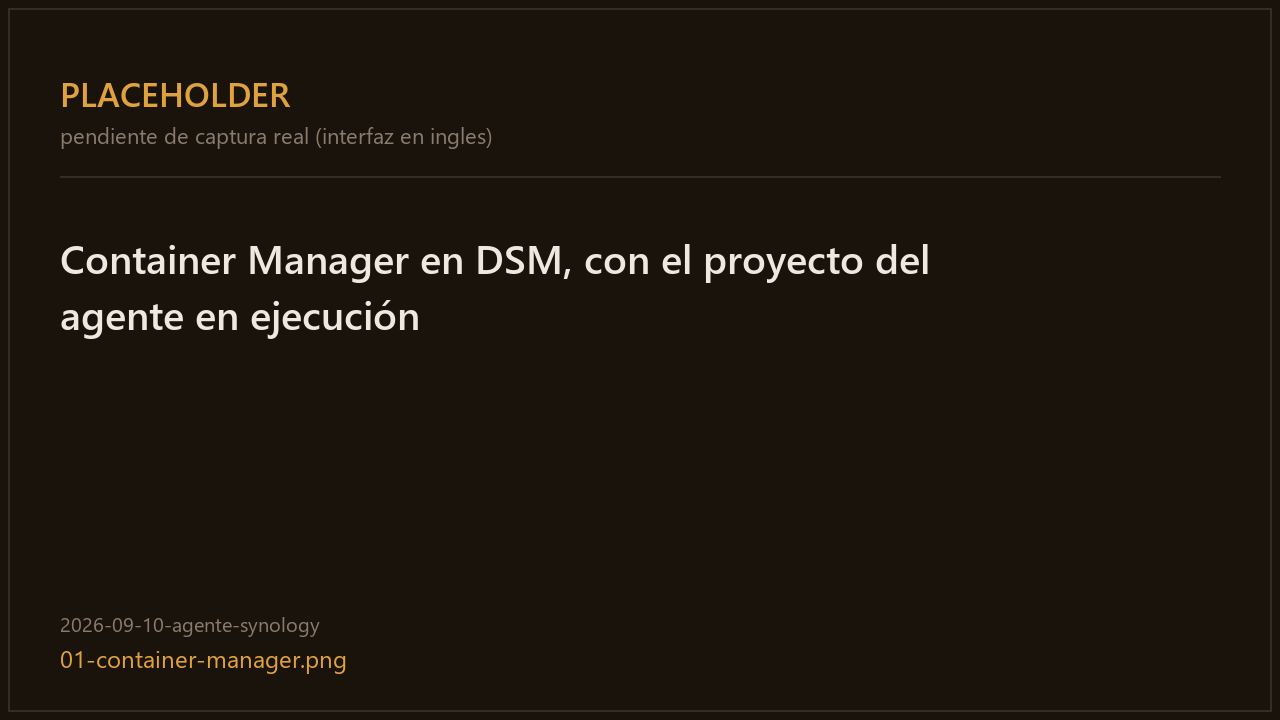
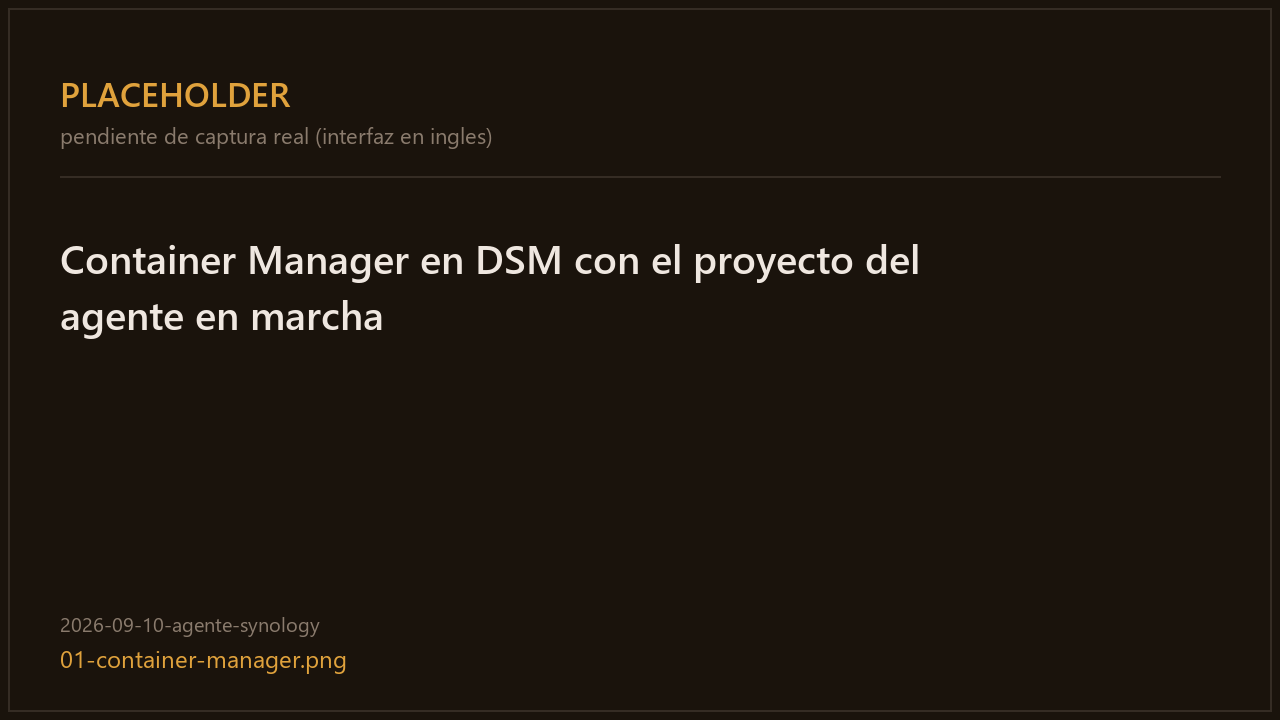
docs: reescribe el articulo de Synology con la voz del blog
Estaba calcado del manual interno del que salio, y se notaba: «Cinco
comprobaciones», «Tres senales, en este orden», titulos numerados 2.1 / 2.2,
listas de tareas. Eso es un procedimiento, no un articulo — leia como
documentacion oficial y el blog no lo es.

Reescrito entero en la voz que toca: alguien que ya lo ha montado
explicandotelo. Informal pero correcto, sin gracietas. Se van las
enumeraciones rigidas y la numeracion de apartados, y entran los porques que un
manual da por sabidos — por que en el NAS y no en el portatil que apagas por la
noche, por que el espacio colado al pegar el codigo es el fallo mas repetido, y
por que de las tres comprobaciones solo cuenta la tercera.

Los datos tecnicos no se tocan: siguen el aviso de `latest` (404 en el registro,
verificado), el de que el primer contenedor se queda la instalacion, el de que
el codigo es una contrasena, y la tabla de diagnostico.

Marcadores regenerados para que su rotulo cuadre con los textos alternativos
nuevos.

Changed region(s): [[0.4375, 0.3361, 0.75, 0.3972], [0.1875, 0.4278, 0.3438, 0.4583]]

diff --git a/posts/2026-09-10-agente-synology/es.md b/posts/2026-09-10-agente-synology/es.md
@@ -1,141 +1,132 @@
 ---
 slug: instalar-agente-bolloprint-synology-container-manager
-title: Instalar el agente de BolloPrint en un NAS Synology, paso a paso
-description: Si ya tienes un Synology encendido en el taller, es el sitio ideal para el agente. Veinte minutos con Container Manager, sin tocar el router y sin saber nada de contenedores.
+title: Montar el agente de BolloPrint en un Synology
+description: Si ya tienes un NAS en el taller, deja de buscar dónde meter el agente. Veinte minutos por la interfaz de DSM, sin escribir un solo comando y sin tocar el router.
 date: 2026-09-10
 updated: 2026-09-10
 tags: [tutoriales]
 draft: false
 ---
 
-Para conectar tus impresoras por red local hace falta el **agente**, un programa
-pequeño que corre en un equipo del taller. Y si ya tienes un **NAS Synology**,
-ese equipo ya lo tienes: está siempre encendido, está en la misma red que las
-impresoras y sabe ejecutar contenedores desde DSM.
+Si tienes un Synology en el taller, ya tienes dónde meter el agente. Está
+encendido las veinticuatro horas, está en la misma red que las impresoras y sabe
+ejecutar contenedores desde hace años. Es difícil encontrar mejor sitio.
 
-Este tutorial monta el agente entero en un Synology, **desde cero y sin saber
-nada de Docker**. Son unos 20 minutos, y casi todo es esperar descargas.
+Y no hace falta que sepas nada de Docker: no vas a escribir ni un comando. Todo
+sale de la interfaz de DSM, pegando un texto en un recuadro. Calcula veinte
+minutos, y la mitad es esperar a que descargue.
 
 :::info
-Aquí solo se cubre **el despliegue en Synology**. Cómo funciona el agente, qué
-marcas admite y cómo dar de alta cada impresora está en el
-[tutorial de red local](/blog/conectar-impresoras-red-local-agente-bolloprint).
-Cuando acabes aquí, sigue por ahí.
+Esto va solo del **despliegue en Synology**. Qué es el agente, qué marcas admite
+y cómo das de alta cada impresora está en el
+[tutorial de red local](/blog/conectar-impresoras-red-local-agente-bolloprint) —
+cuando termines aquí, sigue por ahí.
 :::
 
-![Container Manager en DSM, con el proyecto del agente en ejecución](/blog/media/2026-09-10-agente-synology/01-container-manager.png)
+![Container Manager en DSM con el proyecto del agente en marcha](/blog/media/2026-09-10-agente-synology/01-container-manager.png)
 
-## Por qué el NAS es buen sitio
+## Por qué en el NAS y no en tu portátil
 
-- **Está siempre encendido.** Es el requisito de verdad del agente: si el equipo
-  se apaga por la noche, dejas de ver lo que hacen las impresoras.
-- **Está en la red de las impresoras**, que es lo que le permite descubrirlas
-  solo.
-- **Consume nada**: entre 10 y 20 MB de memoria con varias máquinas conectadas.
-  En un NAS eso no se nota.
+Porque el agente solo sirve si está despierto. Si lo pones en el ordenador que
+apagas al irte, esas horas no las ves: ni qué imprimió, ni cuánto tardó, ni si
+se paró a las tres de la mañana. El NAS ya está encendido de todas formas.
 
-:::info 💡 El agente no abre tu NAS a internet
-Es **él quien llama hacia fuera**, por el puerto 443, igual que cuando abres una
-página web. No recibe conexiones de fuera nunca. Por eso **no hay que abrir
-puertos en el router**, ni tener IP fija, ni tocar el cortafuegos — y funciona
-igual detrás de un router doméstico o de una conexión con CGNAT.
+Lo demás viene de regalo: está en la red de las impresoras, que es lo que le
+permite encontrarlas solo, y consume entre 10 y 20 MB de memoria. En un NAS eso
+no lo nota nadie.
+
+:::info 💡 No, no vas a tener que tocar el router
+El agente **llama hacia fuera**, por el 443, igual que cuando abres una página
+web. Nunca recibe conexiones de internet. Así que nada de abrir puertos, ni IP
+fija, ni pelearte con el cortafuegos — y funciona igual detrás de un router
+doméstico o de una fibra con CGNAT.
 :::
 
-## Antes de empezar
+## Lo que necesitas antes de ponerte
 
-Cinco comprobaciones. Si falla alguna, el resto no va a funcionar y es mejor
-saberlo ahora que a mitad:
+Cuatro cosas, y conviene mirarlas ahora y no a mitad:
 
-- [ ] **El NAS está en la misma red que las impresoras.** Misma LAN, sin router
-      de por medio. Si están separadas el agente funciona igual, pero no las
-      descubrirá solo: habrá que añadirlas a mano por su IP.
-- [ ] **El NAS tiene salida a internet** por el puerto **443**. Nada más.
-- [ ] **Tienes un usuario administrador de DSM.**
-- [ ] **DSM es la versión 7.2 o superior.** Se ve en **Panel de control →
-      Actualización y restauración** (*Control Panel → Update & Restore*). Con
-      DSM 7.0 o 7.1 este tutorial no sirve: hay que actualizar DSM primero.
-- [ ] **Tienes creado el agente en BolloPrint** y a mano su **código de
-      conexión**. Se crea en **Settings → Printers → Local agent**, y está
-      explicado en el [tutorial de red local](/blog/conectar-impresoras-red-local-agente-bolloprint).
+- **Que el NAS y las impresoras estén en la misma red.** Si están en VLANs
+  distintas el agente funciona igual, pero pierde el descubrimiento automático:
+  tendrás que añadir cada impresora a mano por su IP.
+- **Que el NAS salga a internet por el 443.** Nada más.
+- **DSM 7.2 o superior.** Lo miras en **Panel de control → Actualización y
+  restauración** (*Control Panel → Update & Restore*). Con 7.0 o 7.1 esto no te
+  va a servir: actualiza DSM primero.
+- **El código de conexión del agente**, que sacas creándolo en BolloPrint desde
+  **Settings → Printers → Local agent**.
 
-:::danger ⚠ Arranca el agente SOLO en el NAS
-**El primer contenedor que arranque con ese código se queda con la
-instalación.** Si lo pruebas antes en tu portátil «para ver si va» y luego lo
-montas en el Synology, el NAS llegará como una instalación desconocida y se
-quedará **pendiente de autorizar**.
+:::danger ⚠ Arráncalo solo en el NAS, no lo pruebes antes en otro sitio
+El **primer contenedor que arranque con ese código se queda la instalación**.
+Así que si lo lanzas en tu portátil «a ver si tira» y luego lo montas en el
+Synology, el NAS llega como una instalación desconocida y se queda esperando que
+lo autorices.
 
-No es grave —se autoriza con un clic— pero te ahorras el susto sabiéndolo.
+Tampoco es una tragedia —se autoriza con un clic— pero te evitas el momento de
+«¿y ahora por qué no sale?».
 :::
 
-:::warning 🔐 El código es una credencial
-Da acceso a los datos de conexión de las impresoras del taller. Trátalo como una
-contraseña: no va en un chat de grupo ni en una captura de pantalla.
+:::warning 🔐 Ese código es una contraseña
+Da acceso a los datos de conexión de las impresoras del taller. No lo pegues en
+un grupo de WhatsApp ni lo dejes en una captura de pantalla.
 :::
 
-## Paso 1 — Instala Container Manager
+## 1. Instalar Container Manager
 
-Es la aplicación de Synology que sabe ejecutar contenedores. Se instala como
-cualquier otra y **no hay nada que configurar dentro de ella**.
+Es la app de Synology que ejecuta contenedores. Se instala como cualquier otra y
+**por dentro no hay nada que configurar**, así que este paso es rápido.
 
-1. Entra en DSM: en el navegador, `http://IP-DEL-NAS:5000`, con tu usuario
-   administrador.
-2. Abre **Menú principal → Centro de paquetes** (*Package Center*).
-3. Busca **Container Manager** y pulsa **Instalar**. Tarda uno o dos minutos.
-4. Ábrelo y espera a que arranque. Cuando la pestaña **Descripción general**
-   (*Overview*) enseñe datos en vez de un aviso, ya está.
+Entra en DSM (`http://IP-DEL-NAS:5000`) con tu usuario administrador, abre
+**Centro de paquetes** (*Package Center*), busca **Container Manager** y dale a
+instalar. Uno o dos minutos. Luego ábrelo y espera a que arranque: cuando la
+pestaña **Descripción general** (*Overview*) enseñe datos en vez de un aviso, ya
+está.
 
-![Centro de paquetes de DSM con Container Manager](/blog/media/2026-09-10-agente-synology/02-centro-paquetes.png)
+![El Centro de paquetes de DSM con Container Manager](/blog/media/2026-09-10-agente-synology/02-centro-paquetes.png)
 
-DSM crea por su cuenta una carpeta compartida llamada `docker`. Es normal y no
-hay que tocarla.
+Verás que DSM se crea por su cuenta una carpeta compartida llamada `docker`. Es
+normal, déjala en paz.
 
-:::warning ⚠ Si Container Manager no aparece en la lista
-Ese modelo de NAS **no admite contenedores**. Es una limitación del hardware, no
-hay solución por software: monta el agente en otra máquina de la misma red — un
-mini-PC, una Raspberry Pi o cualquier equipo que esté siempre encendido.
+:::warning ⚠ Si Container Manager no te aparece
+Es que ese modelo de NAS no admite contenedores. No hay nada que hacer por
+software: monta el agente en otra máquina de la misma red — un mini-PC, una
+Raspberry Pi, cualquier cosa que esté siempre encendida.
 :::
 
-## Paso 2 — Crea el proyecto del agente
+## 2. Crear el proyecto
 
-En Container Manager, un **proyecto** es una receta escrita: pegas un texto y el
-NAS se encarga de descargar y arrancar lo que diga. No hay que crear carpetas ni
-copiar ficheros a mano.
+En Container Manager un **proyecto** es básicamente una receta escrita: pegas un
+texto, y el NAS se encarga de descargar y arrancar lo que ponga. No hay que
+crear carpetas ni copiar ficheros.
 
-### 2.1 · Nuevo proyecto
-
-Ve a **Container Manager → Proyecto → Crear** (*Project → Create*).
+Ve a **Proyecto → Crear** (*Project → Create*).
 
 ![Container Manager, pestaña Proyecto, botón Crear](/blog/media/2026-09-10-agente-synology/03-crear-proyecto.png)
 
-### 2.2 · Nombre y ruta
+De nombre, `bolloprint-agent`, en minúsculas — DSM no traga mayúsculas ni
+espacios ahí. Para la ruta, pulsa **Establecer ruta** (*Set Path*), métete en la
+carpeta `docker`, crea una llamada `bolloprint-agent` y selecciónala.
 
-- **Nombre**: `bolloprint-agent`. En minúsculas — DSM no acepta mayúsculas ni
-  espacios aquí.
-- **Ruta**: pulsa **Establecer ruta** (*Set Path*), entra en la carpeta `docker`,
-  pulsa **Crear carpeta**, llámala `bolloprint-agent` y selecciónala.
-
-:::info 💡 Ahí solo se guarda la receta
-En esa carpeta va **únicamente el texto del `docker-compose.yml`**. Los datos del
-agente **no van a ninguna carpeta compartida**: viven en un volumen interno de
-Docker que se crea solo y que ni siquiera aparece en File Station. Es lo que
-queremos — nada que tocar y nada que romper por accidente.
+:::info 💡 Ahí solo va la receta, no tus datos
+En esa carpeta se guarda **únicamente el texto del `docker-compose.yml`**. Lo
+que el agente necesita recordar vive en un volumen interno de Docker que se crea
+solo y que ni siquiera sale en File Station. Mejor así: nada que tocar y nada
+que borrar sin querer.
 :::
 
-### 2.3 · Pega el bloque
+En **Origen** (*Source*) elige crear un `docker-compose.yml`. Te sale un
+recuadro vacío, y ahí va el bloque.
 
-En el desplegable **Origen** (*Source*) elige **crear un `docker-compose.yml`**.
-Aparecerá un recuadro de texto vacío.
+:::danger ⚠ Copia el bloque de tu pantalla, no el de aquí
+Lo tienes en BolloPrint, en **Settings → Printers → Local agent → How to deploy
+it**, pestaña **Docker Compose**, con su botón de copiar. Ese lleva la versión
+del agente que toca en cada momento; el de abajo es para que veas la pinta.
 
-:::danger ⚠ Copia el bloque de TU pantalla, no de este artículo
-En BolloPrint, en **Settings → Printers → Local agent → How to deploy it**,
-pestaña **Docker Compose**, tienes el bloque con el botón **Copy**. Ese lleva
-**la versión del agente que toca en cada momento**.
-
-El de aquí abajo es para que veas la pinta que tiene. **Y no pongas `latest`:**
-esa etiqueta no existe en el registro —lo he comprobado hoy: responde 404— y el
-proyecto fallaría con `manifest unknown` sin llegar a arrancar. No es un olvido,
-es deliberado: una etiqueta móvil dejaría que una actualización cambiara el
-agente bajo una flota en marcha sin que el taller lo decida.
+**Y no se te ocurra poner `latest`.** Esa etiqueta no existe en el registro —lo
+he comprobado hoy: devuelve 404— así que el proyecto se quedaría en
+`manifest unknown` sin llegar a arrancar. No es un descuido de nadie: es
+deliberado, porque una etiqueta móvil dejaría que una actualización cambiara el
+agente por debajo de una flota en marcha sin que el taller lo decida.
 :::
 
 ```yaml
@@ -163,55 +154,41 @@ volumes:
     name: bolloprint_agent_identity
 ```
 
-Sustituye `PEGA_AQUI_TU_CODIGO` por tu código de conexión, entero y sin espacios
-delante ni detrás.
+Cambia `PEGA_AQUI_TU_CODIGO` por el tuyo, entero y sin espacios sueltos delante
+o detrás — es el fallo más tonto y el que más veces pasa.
 
-![El editor del docker-compose.yml en Container Manager](/blog/media/2026-09-10-agente-synology/04-compose.png)
+![El editor del docker-compose.yml dentro de Container Manager](/blog/media/2026-09-10-agente-synology/04-compose.png)
 
-Cuatro apuntes sobre ese texto:
+Cuatro cosas de ese texto que conviene que sepas:
 
 - **Pégalo, no lo reescribas.** Los espacios del principio de cada línea son
-  parte del formato, y un tabulador en lugar de espacios hace que DSM lo
-  rechace.
-- **`network_mode: host`** es lo que permite el descubrimiento automático de
-  impresoras. Sin eso, el contenedor no ve la red del NAS y habría que añadirlas
-  todas a mano.
-- **El volumen `identity`** guarda la identidad de esta instalación. Es lo que
-  evita que el agente pida autorización cada vez que se reinicie.
-- **Las dos líneas con `#` están apagadas a propósito.** Solo se encienden para
-  diagnosticar.
+  parte del formato, y como te cuele un tabulador DSM lo rechaza.
+- **`network_mode: host`** es lo que hace que el agente vea la red del NAS y
+  encuentre impresoras solo. Sin eso, todas a mano.
+- **El volumen `identity`** es la memoria del agente. Es lo que evita que te
+  pida autorización cada vez que reinicies.
+- **Las líneas con `#` están apagadas a propósito.** Solo se encienden si hay
+  que diagnosticar algo.
 
-### 2.4 · Sin portal web
+Cuando siga, DSM te ofrece publicar un «portal web». Dile **Ninguno** (*None*):
+el agente no tiene ninguna página que enseñar.
 
-DSM ofrece publicar un «portal web» para el proyecto. Elige **Ninguno** (*None*):
-el agente no tiene ninguna página que publicar.
+Y ya. DSM descarga la imagen y arranca el contenedor enseñándote un registro en
+vivo. Un par de minutos según tu conexión. Si al terminar el proyecto se queda
+parado, lo seleccionas y **Acción → Iniciar** (*Action → Start*).
 
-### 2.5 · Termina
+## 3. Comprobar que va
 
-DSM descarga la imagen y arranca el contenedor mientras enseña un registro en
-vivo. Uno o dos minutos según tu conexión. Cuando acabe, ciérralo.
+Hay tres señales, pero **la que de verdad vale es la tercera**. Las dos primeras
+solo te dicen que el contenedor arrancó, no que esté hablando con nadie.
 
-:::info
-Si el proyecto se queda parado, selecciónalo en la lista y pulsa **Acción →
-Iniciar** (*Action → Start*).
-:::
-
-## Paso 3 — Comprueba que ha funcionado
-
-Tres señales, en este orden. **La tercera es la que cuenta.**
-
-### a) El contenedor está en ejecución
-
-En **Container Manager → Contenedor** (*Container*) debe aparecer
-`bolloprint_agent` en estado **En ejecución**, con un consumo de memoria de unas
-pocas decenas de MB.
+**El contenedor está en marcha.** En **Contenedor** (*Container*) debe salir
+`bolloprint_agent` como **En ejecución**, gastando unas pocas decenas de MB.
 
 ![La lista de contenedores con bolloprint_agent en ejecución](/blog/media/2026-09-10-agente-synology/05-contenedor.png)
 
-### b) El registro dice lo que tiene que decir
-
-Doble clic en el contenedor y abre la pestaña **Registro** (*Log*). En los
-primeros segundos deben salir estas líneas:
+**El registro dice lo que tiene que decir.** Doble clic en el contenedor,
+pestaña **Registro** (*Log*), y en los primeros segundos deberías ver esto:
 
 ```
 INFO bolloprint-agent starting version=0.4.8
@@ -220,48 +197,45 @@ INFO bootstrapped agent_id=... printers=0
 INFO broker connected
 ```
 
-| Línea | Qué confirma |
+Cada línea confirma una cosa distinta, y por eso merece la pena mirarlas:
+
+| Línea | Qué te está diciendo |
 |---|---|
-| `source=stored` | El volumen de identidad está montado y se puede escribir. Si pone otra cosa, el agente pedirá autorización cada vez que se recree el contenedor. |
-| `bootstrapped` | El código es válido y BolloPrint lo ha reconocido. |
-| `broker connected` | La conexión permanente está establecida. A partir de aquí el agente ya reporta. |
+| `source=stored` | El volumen de identidad está montado y se puede escribir. Si pone otra cosa, prepárate a autorizar el agente cada vez que se recree el contenedor. |
+| `bootstrapped` | El código es bueno y BolloPrint lo ha reconocido. |
+| `broker connected` | La conexión permanente está abierta. De aquí en adelante el agente ya reporta. |
 
 ![La pestaña Registro con las líneas de arranque](/blog/media/2026-09-10-agente-synology/06-registro.png)
 
-### c) El agente se pone en verde en BolloPrint
-
-En **Settings → Printers → Local agent**, la tarjeta del agente debe pasar a
-**Online** en unos 30 segundos.
-
-**Esa es la comprobación de verdad**: significa que el circuito completo
-funciona. Las dos anteriores solo dicen que el contenedor arrancó.
+**Y el agente se pone verde en BolloPrint.** En **Settings → Printers → Local
+agent**, la tarjeta debe pasar a **Online** en unos treinta segundos. Esa es la
+buena: significa que el circuito entero funciona.
 
 ![La tarjeta del agente en Online dentro de BolloPrint](/blog/media/2026-09-10-agente-synology/07-agente-online.png)
 
-## Si algo no va
+## Si algo no sale
 
 | Lo que ves | Qué suele ser |
 |---|---|
-| `manifest unknown` al descargar | La versión de la imagen no existe. Copia el bloque otra vez desde tu pantalla de BolloPrint — y comprueba que no pusiste `latest`. |
-| El contenedor arranca y se para solo | Mira el registro: casi siempre es el código mal pegado, con un espacio delante o detrás. |
-| `bootstrapped` no aparece nunca | El NAS no llega a internet por el 443, o hay un cortafuegos bloqueando la salida. |
-| El agente pide autorización en cada reinicio | Falta el volumen de identidad. Revisa que el bloque lleva la sección `volumes` entera, tal cual. |
-| Sale como instalación pendiente de autorizar | Ese código ya se usó en otra máquina. Autorízalo desde BolloPrint si reconoces el equipo — al autorizar uno, el anterior pierde el acceso. |
-| No detecta ninguna impresora | ¿Están el NAS y las impresoras en la misma red? Si no, es lo esperado: añádelas a mano por su IP y funcionarán igual. |
+| `manifest unknown` al descargar | La versión de la imagen no existe. Vuelve a copiar el bloque de tu pantalla — y mira que no hayas puesto `latest`. |
+| Arranca y se para solo | Al registro. Casi siempre es el código mal pegado, con un espacio colado delante o detrás. |
+| `bootstrapped` no sale nunca | El NAS no llega a internet por el 443, o hay un cortafuegos comiéndose la salida. |
+| Te pide autorización en cada reinicio | Le falta el volumen de identidad. Comprueba que pegaste la sección `volumes` entera. |
+| Aparece como instalación pendiente de autorizar | Ese código ya se usó en otra máquina. Si reconoces el equipo, autorízalo — eso sí, al autorizar uno el anterior pierde el acceso. |
+| No encuentra ninguna impresora | ¿Están el NAS y las impresoras en la misma red? Si no, es lo esperado: añádelas por IP y van igual de bien. |
 
-## Y ahora, las impresoras
+## Lo que queda
 
-Con el agente en verde ya tienes la mitad hecha: falta darle de alta las
-máquinas. Eso —las que aparecen solas, las que hay que añadir por IP, y lo que
-pide cada marca— está en el
-[tutorial de conectar impresoras por red local](/blog/conectar-impresoras-red-local-agente-bolloprint).
+Con el agente en verde tienes media faena. Falta darle las impresoras: las que
+aparecen solas, las que hay que meter por IP y lo que pide cada marca está todo
+en el [tutorial de red local](/blog/conectar-impresoras-red-local-agente-bolloprint).
 
-El contenedor **arranca solo cada vez que se reinicie el NAS** y no necesita
-mantenimiento. Lo único que harás de vez en cuando es actualizarlo: cuando
-BolloPrint avise de que hay versión nueva, vuelves a copiar el bloque de la
-pantalla y reinicias el proyecto.
+A partir de ahí te puedes olvidar. El contenedor vuelve solo cada vez que
+reinicies el NAS y no pide mantenimiento. Lo único que harás de vez en cuando es
+actualizarlo: cuando BolloPrint te avise de que hay versión nueva, copias otra
+vez el bloque de la pantalla y reinicias el proyecto.
 
-## Documentación relacionada
+## Para seguir leyendo
 
 - [El agente local](/help/el-agente-local) — instalación, identidad, varios agentes y diagnóstico
 - [Impresoras por red local](/help/impresoras-por-red-local) — dar de alta las máquinas
